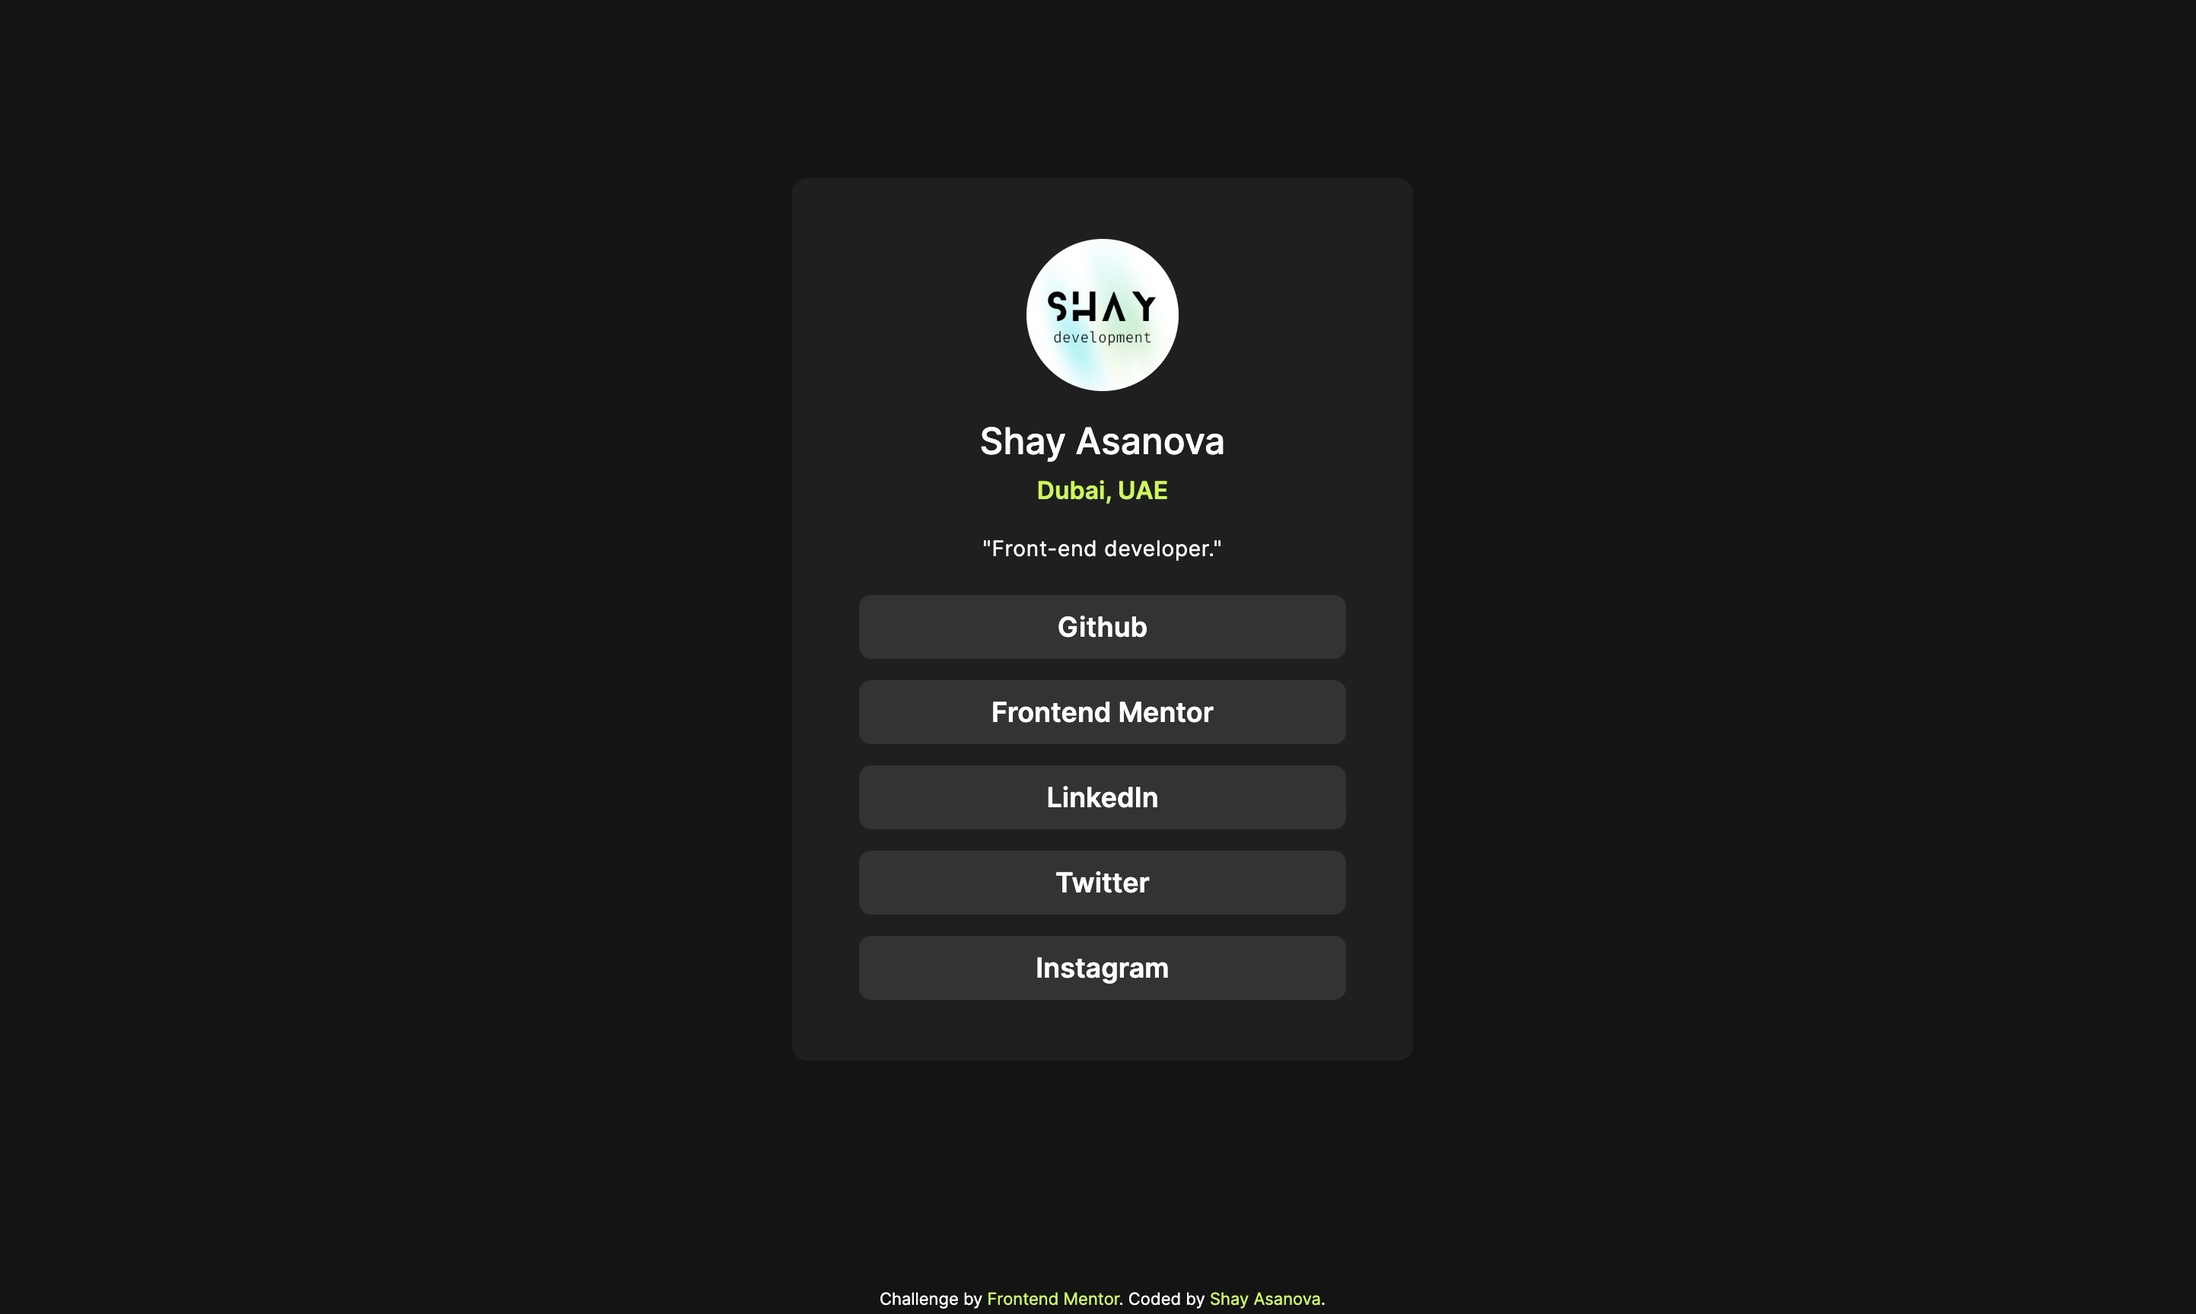
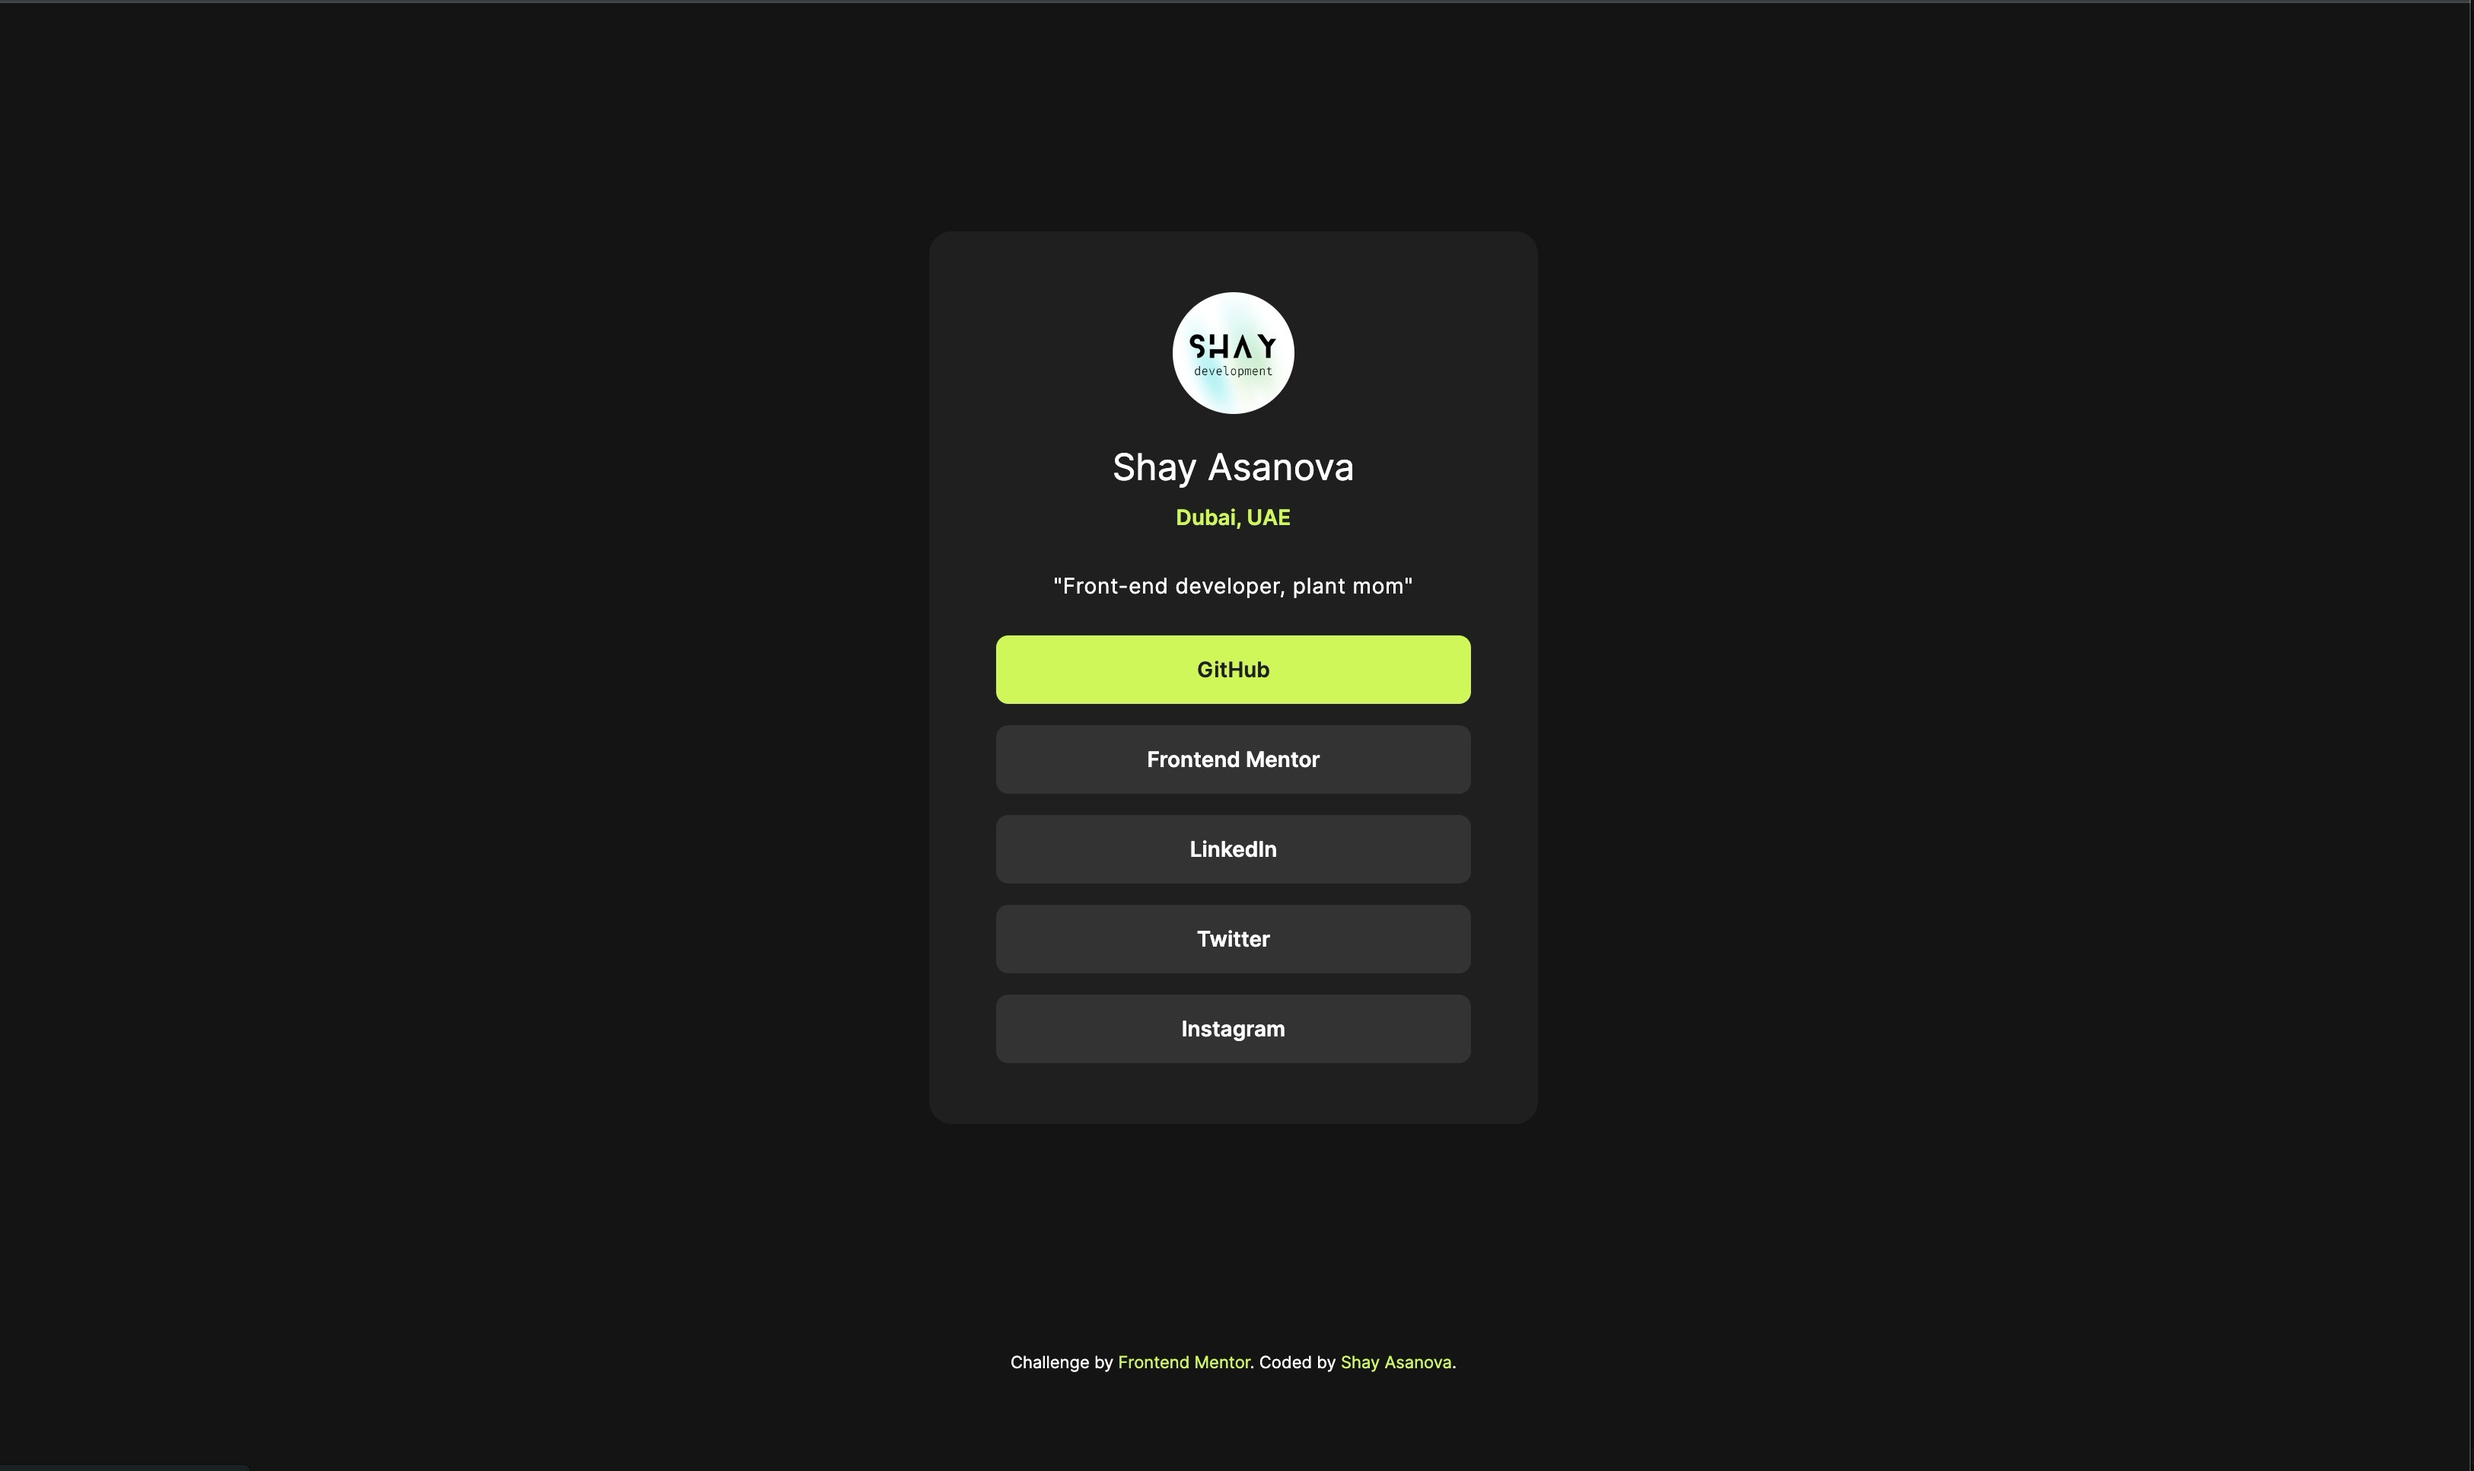
minor padding changes to container

diff --git a/style.css b/style.css
@@ -14,25 +14,25 @@ body{
     width: 80%;
     margin: 150px auto;
     background-color:hsl(0, 0%, 12%);
-    padding: 40px 4px;
-    border-radius: 10px;
+    padding: 40px 0;
+    border-radius: 15px;
 }
 img{
     border-radius: 50%;
-    width: 100px;
+    width: 80px;
 }
 h1{
     font-size: 24px;
-    font-weight: 500;
-    margin: 18px 0 8px 0;
+    font-weight: 400;
+    margin: 20px 0 10px 0;
 }
 span{
     color:  hsl(75, 94%, 57%);
-   font-size: 16px;
+   font-size: 14px;
    font-weight: 600;
 }
 p{
-    margin: 20px 0 8px 0;
+    margin: 28px 0 10px 0;
     font-size: 14px;
     letter-spacing: 0.4px;
 }
@@ -40,11 +40,11 @@ p{
     background-color:hsl(0, 0%, 20%);
     text-decoration: none;
     border-radius: 8px;
-    font-size: 18px;
+    font-size: 14px;
     font-weight: 600;
-    padding: 10px 20px;
+    padding: 14px 20px;
     margin-top: 14px;
-    width: 70%;
+    width: 68%;
     text-align: center;
     color: hsl(0, 0%, 100%);
 }

diff --git a/index.html b/index.html
@@ -13,14 +13,11 @@
 </head>
 <body>
 <div class="container">
-  
     <img src="./assets/images/favicon.png" alt="a logo of shay development">
     <h1>Shay Asanova</h1>
     <span>Dubai, UAE</span>
     <p>"Front-end developer, plant mom"</p>
- 
-
-  <a class="social-link" href="#" target="_blank">Github</a>
+  <a class="social-link" href="#" target="_blank">GitHub</a>
   <a class="social-link" href="#" target="_blank">Frontend Mentor</a>
   <a class="social-link" href="#" target="_blank">LinkedIn</a>
   <a class="social-link" href="#" target="_blank">Twitter</a>

diff --git a/README.md b/README.md
@@ -22,7 +22,7 @@ A challenge to create a similar design with pure HTML and CSS. You can use this 
 
 Users should be able to:
 
-- See hover and focus states for all interactive elements on the page. Links would lead to the social link in a new window. 
+- See hover and focus states for all interactive elements on the page. Links would lead to the social link in a new window. `
 - The content should be responponsive and consistent with different viewport sizes.
 
 ### Screenshot
